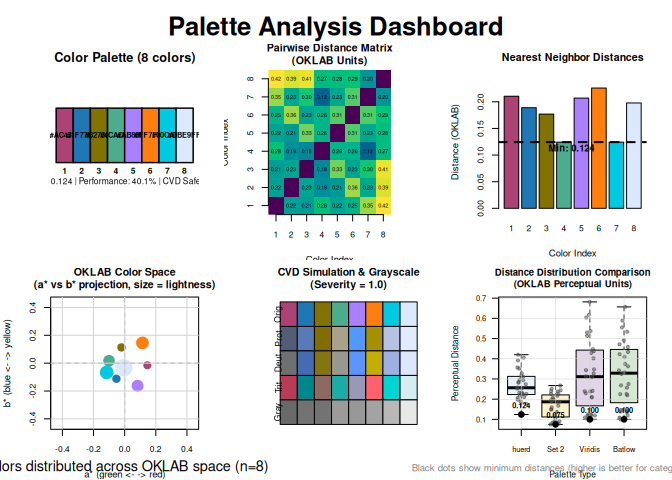
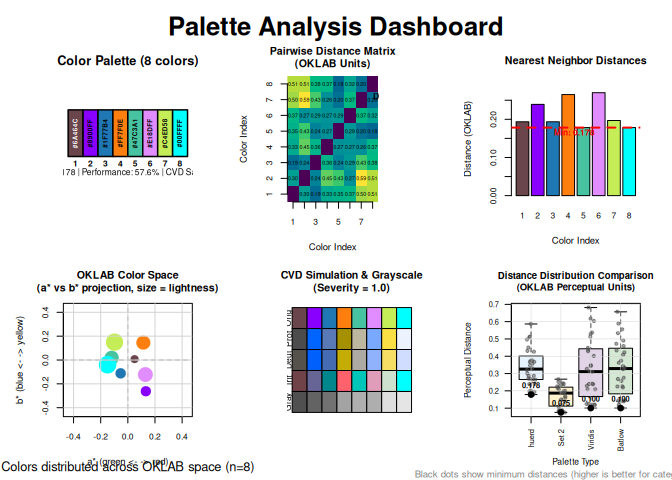
fix: comprehensive dashboard layout and text visibility improvements
- Rotate hex codes 90 degrees to prevent bleeding into adjacent rectangles
- Fix Y-axis label cutoff in heatmap with improved margins
- Remove redundant minimum markers to reduce visual clutter
- Fix X-axis text cutoff in scatter plot and boxplot panels
- Improve spacing between CVD labels and elements above
- Increase plot resolution for crisp, non-pixelated text
- Optimize space utilization while maintaining readability
- Create publication-ready dashboard with professional appearance

diff --git a/README.md b/README.md
@@ -39,22 +39,22 @@ print(palette)
 #> 
 #> -- huerd Color Palette (8 colors) --
 #> Colors:
-#> [ 1] #3D0000
-#> [ 2] #0000E4
+#> [ 1] #002700
+#> [ 2] #8B0000
 #> [ 3] #FF0000
-#> [ 4] #0091FF
-#> [ 5] #FF00E5
-#> [ 6] #BCAC5E
-#> [ 7] #FF85B7
-#> [ 8] #00DDFF
+#> [ 4] #008BFF
+#> [ 5] #FF00FF
+#> [ 6] #00C100
+#> [ 7] #FF8400
+#> [ 8] #00F64B
 #> 
 #> -- Quality Metrics Summary --
-#> * Min. Perceptual Distance (OKLAB): 0.188
-#> * Optimizer Performance Ratio      : 60.6%
-#> * Min. CVD-Safe Distance (OKLAB)  : 0.101
+#> * Min. Perceptual Distance (OKLAB): 0.146
+#> * Optimizer Performance Ratio      : 47.1%
+#> * Min. CVD-Safe Distance (OKLAB)  : 0.053
 #> 
 #> -- Generation Details --
-#> * Optimizer Iterations: 861
+#> * Optimizer Iterations: 667
 #> * Optimizer Status: NLOPT_XTOL_REACHED: Optimization stopped because xtol_rel or xtol_abs (above) was reached.
 ```
 
@@ -73,22 +73,22 @@ print(palette)
 #> 
 #> -- huerd Color Palette (8 colors) --
 #> Colors:
-#> [ 1] #4C4100
-#> [ 2] #005156
-#> [ 3] #4A6B8A
-#> [ 4] #427AEC
-#> [ 5] #A09EAF
-#> [ 6] #E5A04C
-#> [ 7] #8EB4FF
-#> [ 8] #00EFFF
+#> [ 1] #4A6B8A
+#> [ 2] #FF0000
+#> [ 3] #B582A6
+#> [ 4] #9699F4
+#> [ 5] #E5A04C
+#> [ 6] #1CD4AC
+#> [ 7] #FFB4FF
+#> [ 8] #C4EA3E
 #> 
 #> -- Quality Metrics Summary --
-#> * Min. Perceptual Distance (OKLAB): 0.115
-#> * Optimizer Performance Ratio      : 37.1%
-#> * Min. CVD-Safe Distance (OKLAB)  : 0.106
+#> * Min. Perceptual Distance (OKLAB): 0.121
+#> * Optimizer Performance Ratio      : 38.9%
+#> * Min. CVD-Safe Distance (OKLAB)  : 0.111
 #> 
 #> -- Generation Details --
-#> * Optimizer Iterations: 573
+#> * Optimizer Iterations: 535
 #> * Optimizer Status: NLOPT_XTOL_REACHED: Optimization stopped because xtol_rel or xtol_abs (above) was reached.
 ```
 
@@ -117,11 +117,11 @@ evaluation <- evaluate_palette(palette)
 
 # Access raw metrics (no subjective scoring)
 cat("Minimum distance:", evaluation$distances$min, "\n")
-#> Minimum distance: 0.09164296
+#> Minimum distance: 0.1876987
 cat("Performance ratio:", evaluation$distances$performance_ratio * 100, "%\n")
-#> Performance ratio: 29.57528 %
+#> Performance ratio: 60.57468 %
 cat("CVD worst case:", evaluation$cvd_safety$worst_case_min_distance, "\n")
-#> CVD worst case: 0.0596302
+#> CVD worst case: 0.148669
 ```
 
 ## Custom Parameters
@@ -141,22 +141,22 @@ print(palette)
 #> 
 #> -- huerd Color Palette (8 colors) --
 #> Colors:
-#> [ 1] #705DB7
-#> [ 2] #C86AB6
-#> [ 3] #9C9A2F
-#> [ 4] #F17587
-#> [ 5] #27C4C1
-#> [ 6] #FDA700
-#> [ 7] #B7CE9B
-#> [ 8] #84DAFD
+#> [ 1] #8C8C33
+#> [ 2] #CE778E
+#> [ 3] #9A8EE0
+#> [ 4] #64BC5F
+#> [ 5] #D29CC4
+#> [ 6] #FFA6F7
+#> [ 7] #C7E2DC
+#> [ 8] #FFE6A9
 #> 
 #> -- Quality Metrics Summary --
-#> * Min. Perceptual Distance (OKLAB): 0.113
-#> * Optimizer Performance Ratio      : 36.4%
-#> * Min. CVD-Safe Distance (OKLAB)  : 0.083
+#> * Min. Perceptual Distance (OKLAB): 0.097
+#> * Optimizer Performance Ratio      : 31.4%
+#> * Min. CVD-Safe Distance (OKLAB)  : 0.080
 #> 
 #> -- Generation Details --
-#> * Optimizer Iterations: 546
+#> * Optimizer Iterations: 913
 #> * Optimizer Status: NLOPT_XTOL_REACHED: Optimization stopped because xtol_rel or xtol_abs (above) was reached.
 ```
 
@@ -192,9 +192,9 @@ plot_palette_analysis(brand_palette)
 # 3. Quality evaluation
 evaluation <- evaluate_palette(brand_palette)
 cat("Min distance:", round(evaluation$distances$min, 3), "\n")
-#> Min distance: 0.124
+#> Min distance: 0.178
 cat("Performance:", round(evaluation$distances$performance_ratio * 100, 1), "%\n")
-#> Performance: 40.1 %
+#> Performance: 57.6 %
 
 # 4. CVD accessibility check
 cvd_safe <- is_cvd_safe(brand_palette)
@@ -211,62 +211,62 @@ print(cvd_simulation)
 #> 
 #> -- huerd CVD Simulation Result (Multiple Types, Severity: 1.00) --
 #> Palette for: original
-#>   [ 1] #AC4374
-#>   [ 2] #1F77B4
-#>   [ 3] #827300
-#>   [ 4] #4CAC8E
-#>   [ 5] #AB80FF
-#>   [ 6] #FF7F0E
-#>   [ 7] #00CAE2
-#>   [ 8] #DBE9FF
+#>   [ 1] #6A464C
+#>   [ 2] #8900FF
+#>   [ 3] #1F77B4
+#>   [ 4] #FF7F0E
+#>   [ 5] #47C3A1
+#>   [ 6] #E18DFF
+#>   [ 7] #C4ED58
+#>   [ 8] #00FFFF
 #> Palette for: protan
-#>   [ 1] #535D75
-#>   [ 2] #5A79B7
-#>   [ 3] #806F00
-#>   [ 4] #A8A28D
-#>   [ 5] #5298FF
-#>   [ 6] #A59100
-#>   [ 7] #B6C2E3
-#>   [ 8] #E2EAFF
+#>   [ 1] #4C4C4C
+#>   [ 2] #0064FF
+#>   [ 3] #5A79B7
+#>   [ 4] #A59100
+#>   [ 5] #BDB79F
+#>   [ 6] #79A9FF
+#>   [ 7] #FADF45
+#>   [ 8] #EDF2FF
 #> Palette for: deutan
-#>   [ 1] #6F7072
-#>   [ 2] #456CB3
-#>   [ 3] #84750F
-#>   [ 4] #999790
-#>   [ 5] #5C96FC
-#>   [ 6] #C4AE05
-#>   [ 7] #9DB0E2
-#>   [ 8] #DEE6FE
+#>   [ 1] #54524B
+#>   [ 2] #0060FB
+#>   [ 3] #456CB3
+#>   [ 4] #C4AE05
+#>   [ 5] #ACAAA3
+#>   [ 6] #90B1FC
+#>   [ 7] #F5DE63
+#>   [ 8] #D0DDFF
 #> Palette for: tritan
-#>   [ 1] #B93C56
-#>   [ 2] #00868D
-#>   [ 3] #8D6961
-#>   [ 4] #1BADA3
-#>   [ 5] #9899B4
-#>   [ 6] #FF616D
-#>   [ 7] #00D5D1
-#>   [ 8] #D3EDF0
+#>   [ 1] #704348
+#>   [ 2] #676496
+#>   [ 3] #00868D
+#>   [ 4] #FF616D
+#>   [ 5] #00C5B9
+#>   [ 6] #E09DBA
+#>   [ 7] #CDE2CE
+#>   [ 8] #00FFFE
 
 # 6. Display final palette (colors are brightness-sorted)
 print(brand_palette)
 #> 
 #> -- huerd Color Palette (8 colors) --
 #> Colors:
-#> [ 1] #AC4374
-#> [ 2] #1F77B4
-#> [ 3] #827300
-#> [ 4] #4CAC8E
-#> [ 5] #AB80FF
-#> [ 6] #FF7F0E
-#> [ 7] #00CAE2
-#> [ 8] #DBE9FF
+#> [ 1] #6A464C
+#> [ 2] #8900FF
+#> [ 3] #1F77B4
+#> [ 4] #FF7F0E
+#> [ 5] #47C3A1
+#> [ 6] #E18DFF
+#> [ 7] #C4ED58
+#> [ 8] #00FFFF
 #> 
 #> -- Quality Metrics Summary --
-#> * Min. Perceptual Distance (OKLAB): 0.124
-#> * Optimizer Performance Ratio      : 40.1%
-#> * Min. CVD-Safe Distance (OKLAB)  : 0.116
+#> * Min. Perceptual Distance (OKLAB): 0.178
+#> * Optimizer Performance Ratio      : 57.6%
+#> * Min. CVD-Safe Distance (OKLAB)  : 0.123
 #> 
 #> -- Generation Details --
-#> * Optimizer Iterations: 634
+#> * Optimizer Iterations: 351
 #> * Optimizer Status: NLOPT_XTOL_REACHED: Optimization stopped because xtol_rel or xtol_abs (above) was reached.
 ```
